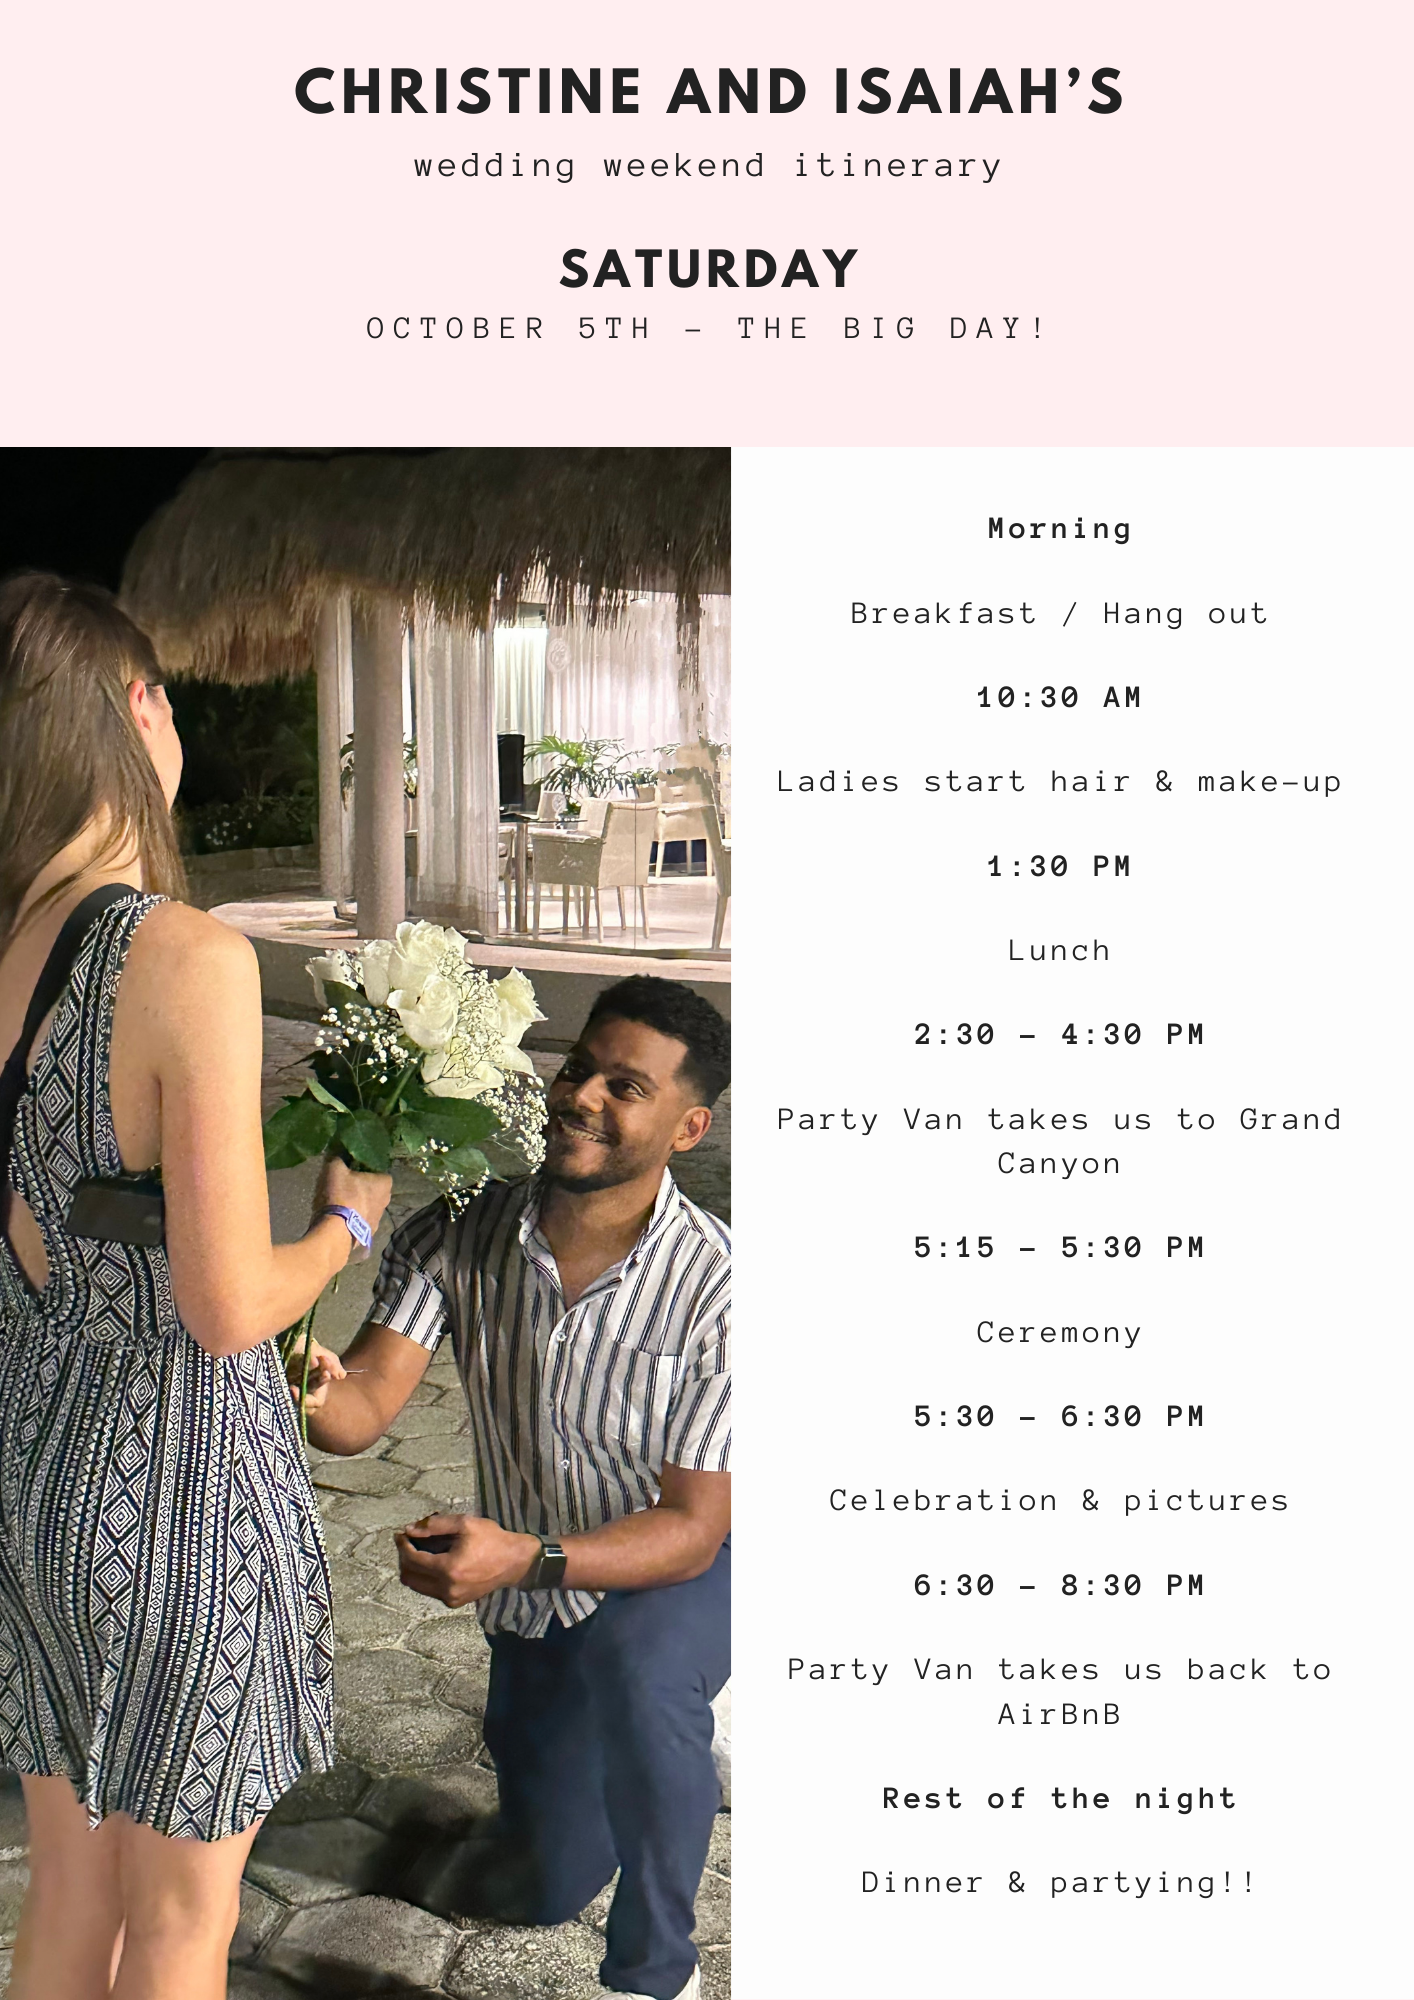
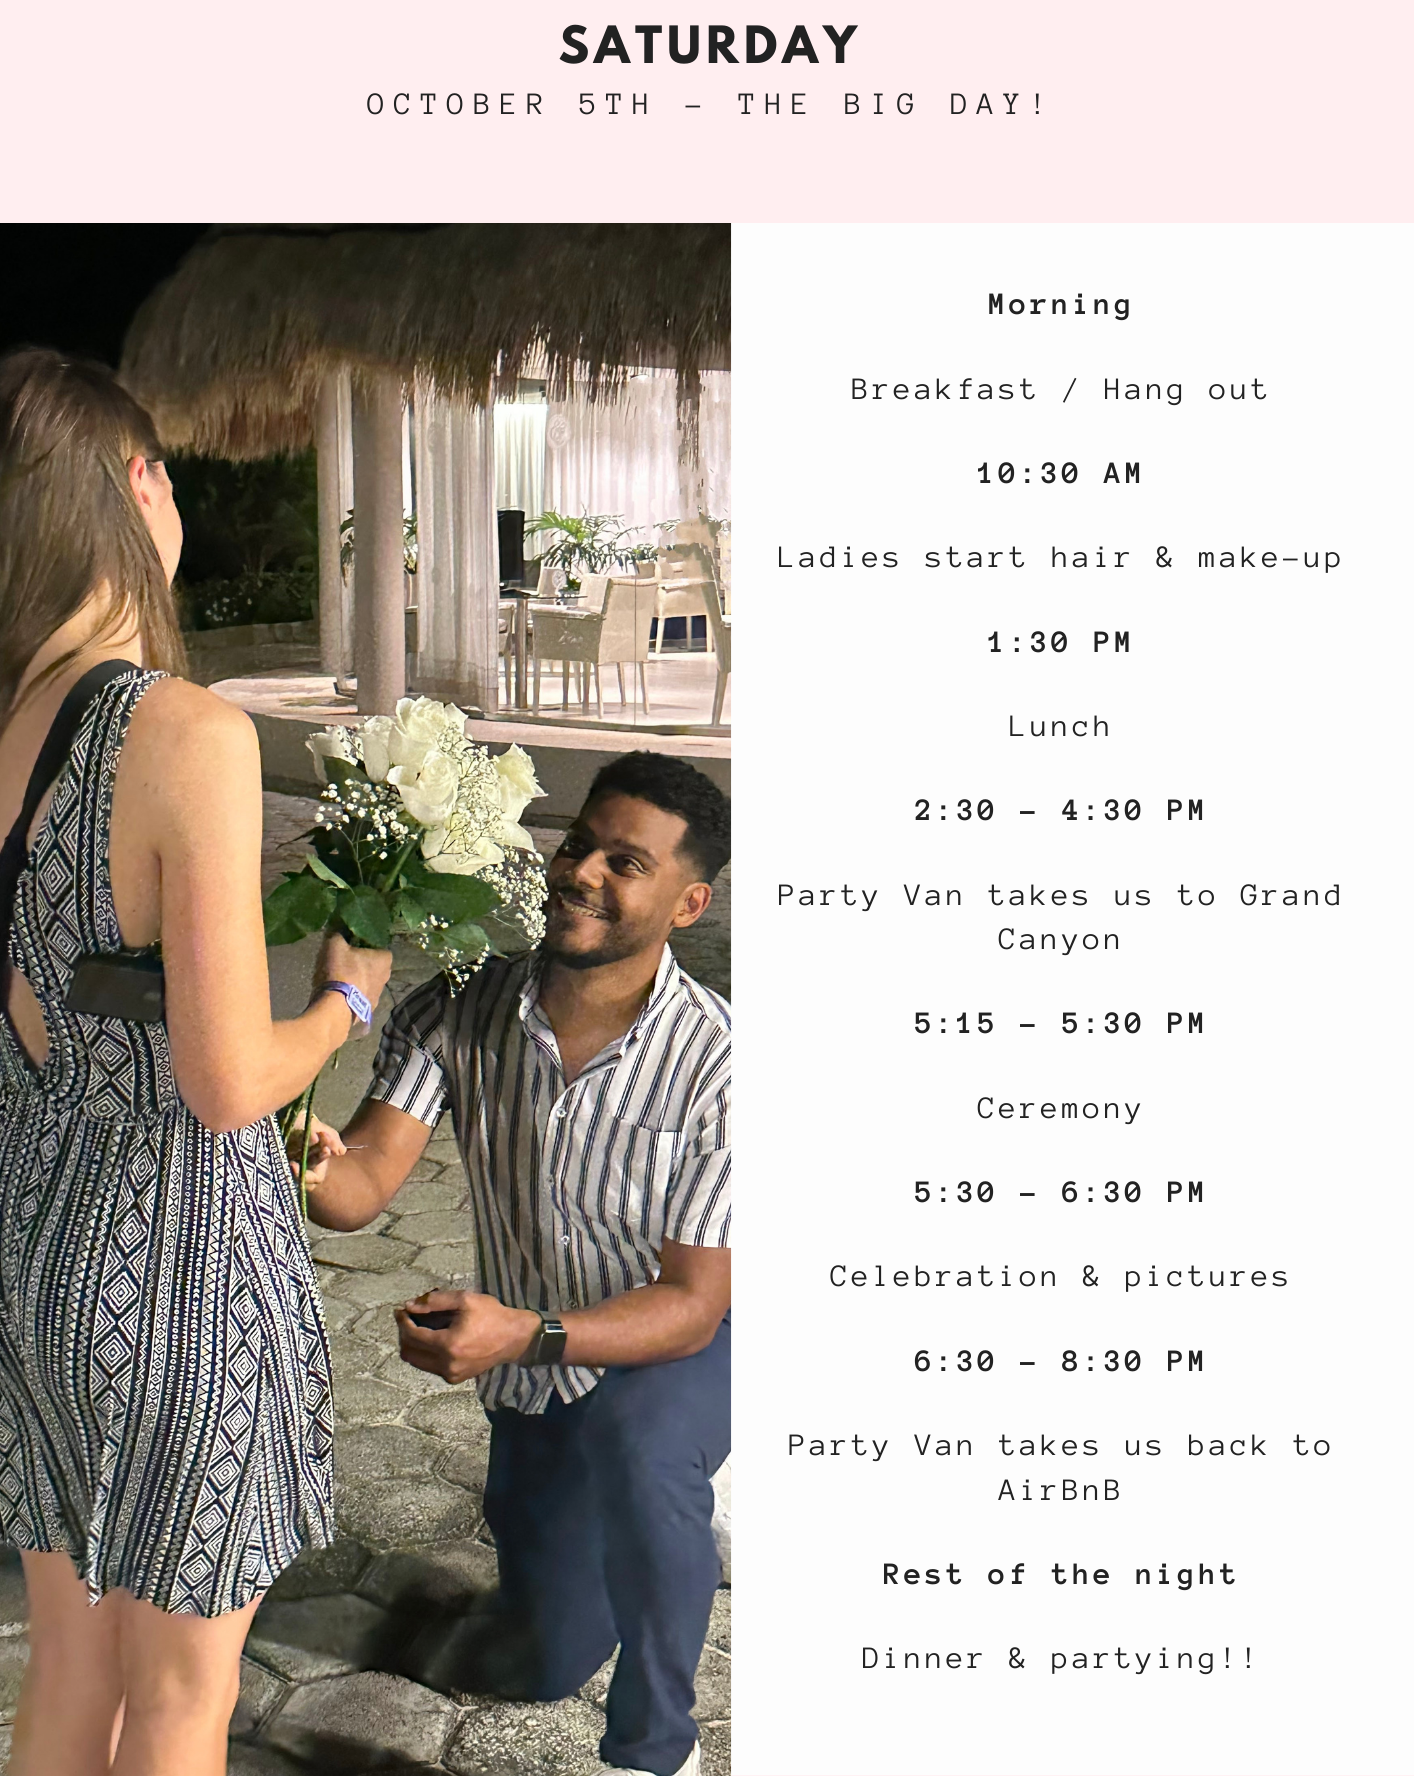
getting rid of carousel

diff --git a/itinerary.html b/itinerary.html
@@ -9,29 +9,19 @@
   <link rel="icon" type="image/x-icon" href="/imgs/favicon.ico">
 </head>
 <body>
-    <div id="carouselExampleControls" class="carousel slide" data-ride="carousel">
-        <div class="carousel-inner">
-          <div class="carousel-item active">
-            <img class="d-block w-100" src="imgs/itin1.png" alt="First slide">
-          </div>
-          <div class="carousel-item">
-            <img class="d-block w-100" src="imgs/itin2.png" alt="Second slide">
-          </div>
-          <div class="carousel-item">
-            <img class="d-block w-100" src="imgs/itin3.png" alt="Third slide">
-          </div>
-          <div class="carousel-item">
-            <img class="d-block w-100" src="imgs/itin4.png" alt="Fourth slide">
-          </div>
+    <div class="itin-containter">
+        <div>
+        <img class="d-block h-100" src="imgs/itin1.png">
         </div>
-        <a class="carousel-control-prev" href="#carouselExampleControls" role="button" data-slide="prev">
-          <span class="carousel-control-prev-icon" aria-hidden="true"></span>
-          <span class="sr-only">Previous</span>
-        </a>
-        <a class="carousel-control-next" href="#carouselExampleControls" role="button" data-slide="next">
-          <span class="carousel-control-next-icon" aria-hidden="true"></span>
-          <span class="sr-only">Next</span>
-        </a>
+        <div>
+        <img class="d-block h-100" src="imgs/itin2.png" alt="Second slide">
+        </div>
+        <div>
+        <img class="d-block h-100" src="imgs/itin3.png" alt="Third slide">
+        </div>
+        <div">
+        <img class="d-block h-100" src="imgs/itin4.png" alt="Fourth slide">
+        </div>
     </div>
     <script src="https://cdn.jsdelivr.net/npm/bootstrap@5.3.3/dist/js/bootstrap.bundle.min.js" integrity="sha384-YvpcrYf0tY3lHB60NNkmXc5s9fDVZLESaAA55NDzOxhy9GkcIdslK1eN7N6jIeHz" crossorigin="anonymous"></script>
 </body>

diff --git a/styles.css b/styles.css
@@ -5,8 +5,6 @@
 }
 
 body {
-  height: 100vh;
-  overflow: hidden;
   background: url("imgs/background.jpg");
   background-repeat: no-repeat;
   background-size: cover;
@@ -15,6 +13,11 @@ body {
   display: flex;
   justify-content: center;
   align-items: center;
+}
+
+.itin-container {
+  margin-top: 30px;
+  margin-bottom: 30px;
 }
 
 .container {
@@ -39,12 +42,6 @@ body {
 	}
 }
 
-/*
-.container:hover > .card {
-  cursor: pointer;
-  transform: rotateY(180deg);
-}
-*/
 
 #card-flip {
     display: none;
